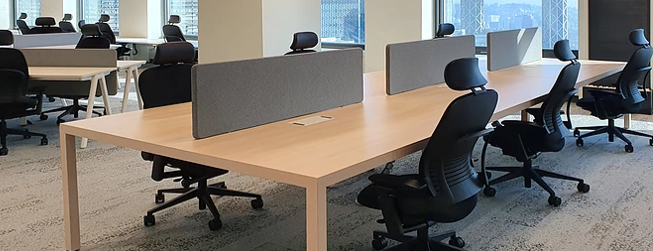
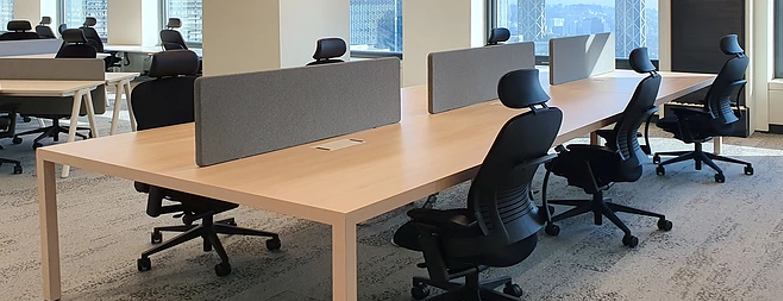
부장이미지까지

diff --git a/src/com/mini/run/run.java b/src/com/mini/run/run.java
@@ -1,13 +1,12 @@
 package com.mini.run;
 
-import com.mini.view.FristMain;
-import com.mini.view.chap01Narration1;
+import com.mini.view.chap01Narration3;
 
 public class run {
 	public static void main(String[] args) {
 		
 //		new FristMain();
-		new chap01Narration1("a",1,50);
+//		new chap01Narration1("a",1,50);
 //		new chap01Choice1("dsa",1,1);
 //		new rankList();
 //        new happyEnd("sad",2,2);		
@@ -15,6 +14,9 @@ public class run {
 //		new SecondMain();
 
 //		new chap01Talk1("user", 1, 1);
+		
+		new chap01Narration3("a",1,50);
+
 		
 	}
 }

diff --git a/src/com/mini/view/chap01Narration5.java b/src/com/mini/view/chap01Narration5.java
@@ -42,7 +42,7 @@ public class chap01Narration5 extends JFrame {
 		pan.setBackground(b);
 
 		// 상단에 사람 이미지
-		Image personImg = new ImageIcon("image/부장님4.png").getImage();
+		Image personImg = new ImageIcon("image/부장자리.jpg").getImage();
 		personImg.getScaledInstance(780, 300, Image.SCALE_SMOOTH);
 		JLabel person = new JLabel(new ImageIcon(personImg));
 
